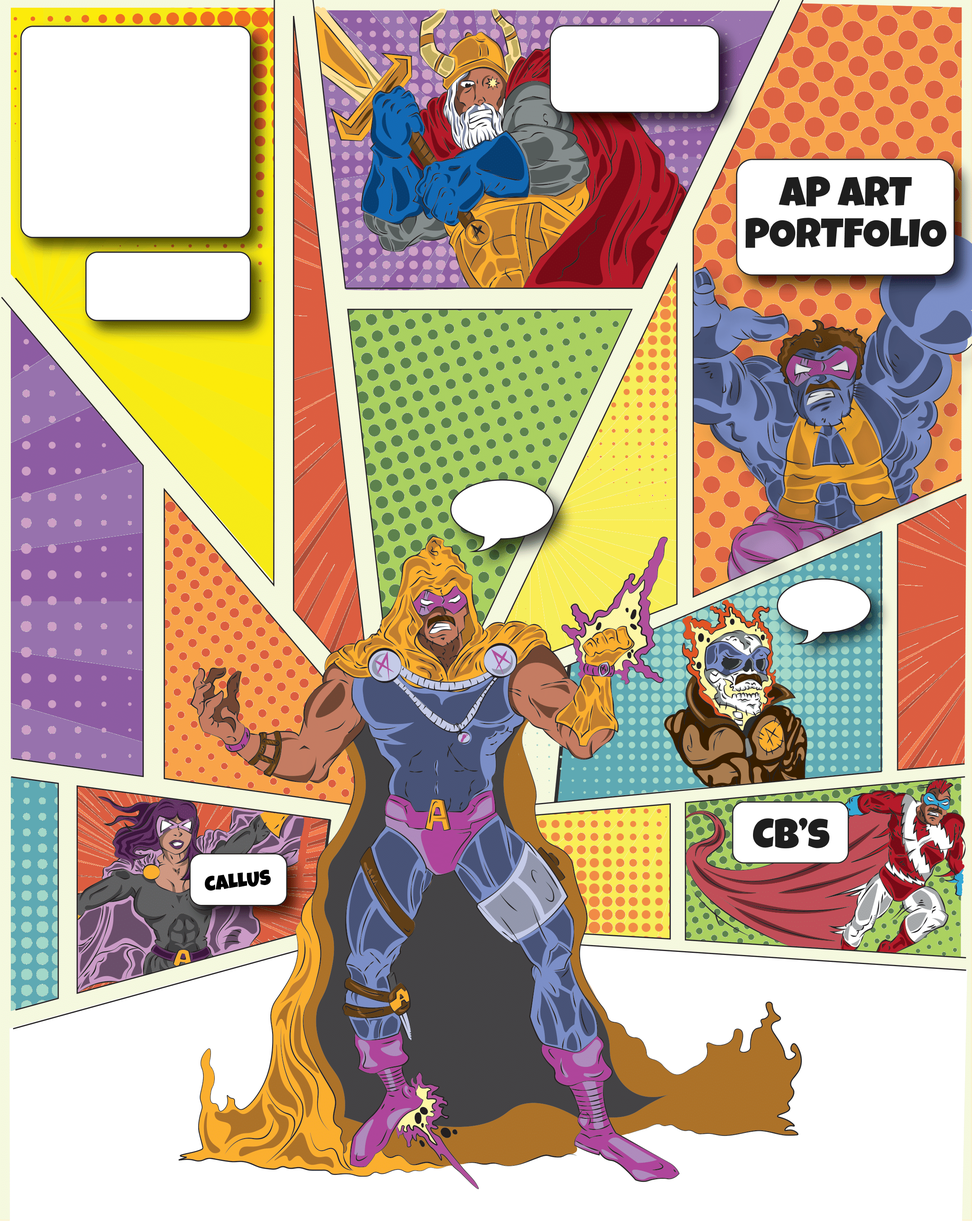
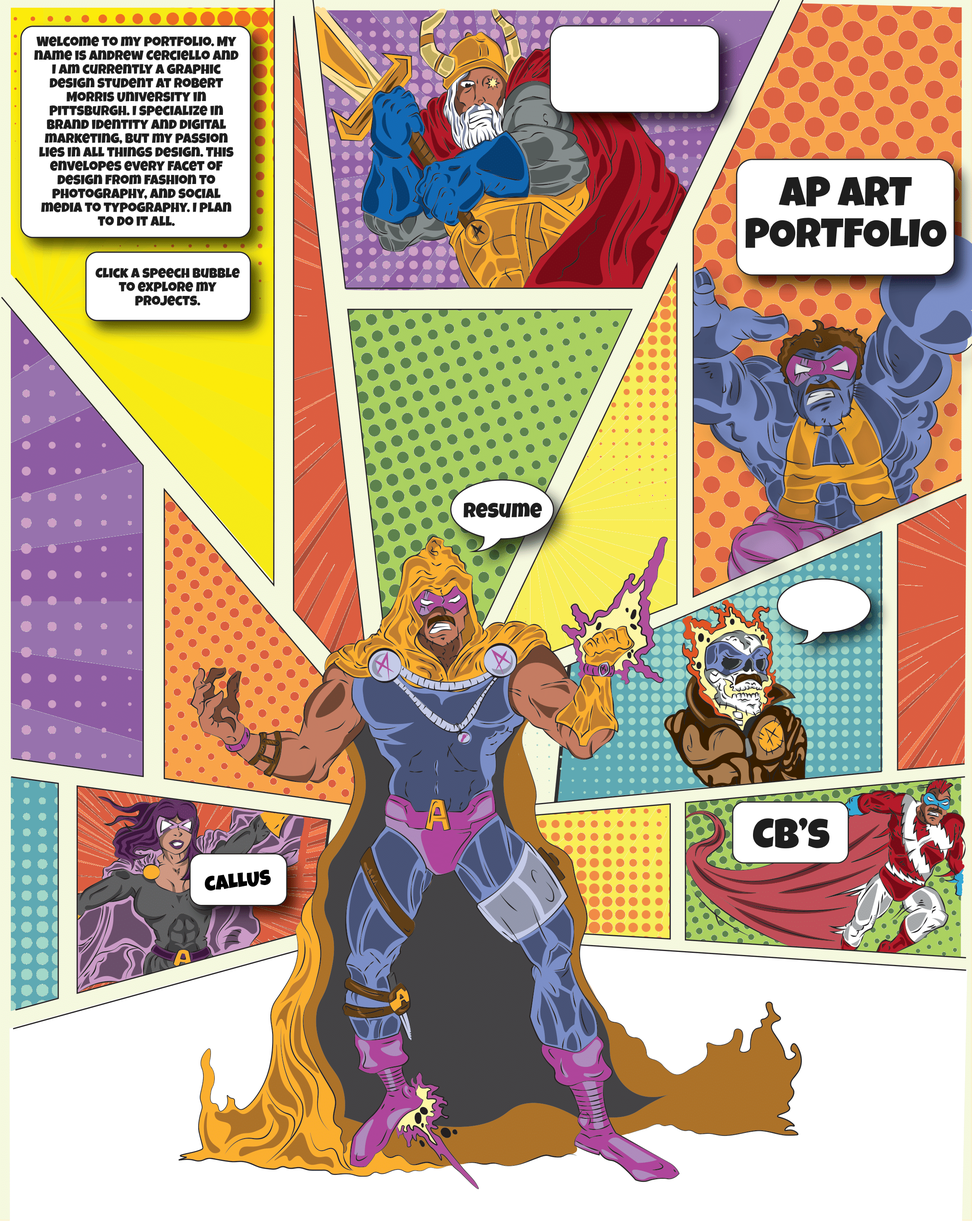
added resume button

Changed region(s): [[0.0311, 0.0312, 0.2489, 0.1874], [0.0933, 0.2186, 0.2489, 0.2498], [0.4667, 0.406, 0.56, 0.4372]]

diff --git a/src/components/Home.jsx b/src/components/Home.jsx
@@ -5,7 +5,8 @@ const Home = () => {
     <div className="relative bg-heytheandrew bg-top w-full h-[250vh] bg-cover bg-scroll">
       {/* Background Image */}
       <div className="absolute inset-0 pointer-events-none"></div>
-      
+
+      {/* Callus Button*/}
       <div className="absolute" style={{ top: '73.7%', left: '24.5%', transform: 'translate(-50%, -50%)', zIndex: 10 }}>
         <div className="w-[10vw] h-[5vh] bg-red-500 opacity-0 cursor-pointer py-9">
           <Link to="/callus" className="block h-full w-full flex items-center justify-center text-white">
@@ -13,9 +14,11 @@ const Home = () => {
           </Link>
         </div>
       </div>
+
+      {/* CB's Button*/}
       <div className="absolute" style={{ top: '70.5%', left: '81.2%', transform: 'translate(-50%, -50%)', zIndex: 10 }}>
         <div className="w-[12vw] h-[5vh] bg-red-500 opacity-0 cursor-pointer py-9">
-          <Link to="/Cbs" className="block h-full w-full flex items-center justify-center text-white">
+          <Link to="/cbs" className="block h-full w-full flex items-center justify-center text-white">
             CB's
           </Link>
         </div>
@@ -26,6 +29,15 @@ const Home = () => {
         <div className="w-[24vw] h-[32vh] bg-red-500 opacity-0 cursor-pointer py-9">
           <Link to="/ap-art" className="block h-full w-full flex items-center justify-center text-white">
             AP ART PORTFOLIO
+          </Link>
+        </div>
+      </div>
+      
+      {/* RESUME Button */}
+      <div className="absolute" style={{ top: '42%', right: '40%', transform: 'translate(-10%, -50%)', zIndex: 10 }}>
+        <div className="w-[16vw] h-[16vh] bg-red-500 opacity-0 cursor-pointer py-9">
+          <Link to="https://docs.google.com/document/d/1f4NceAsjwlohGQO05duVJD-LV26ia0ZxnTrng3ER0vk/edit?tab=t.0" target='_blank' className="block h-full w-full flex items-center justify-center text-white">
+          RESUME
           </Link>
         </div>
       </div>

diff --git a/src/App.js b/src/App.js
@@ -14,11 +14,11 @@ const App = () => {
       <main>
         <Routes>
           <Route path="/" element={<Home />} />
-          <Route path="/callus" element={<Callus />} />
-          <Route path="/callus-2" element={<Callus2 />} />
           <Route path="/ap-art" element={<ApArt />} />
           <Route path="/ap-art2" element={<ApArt2 />} />
           <Route path="/cbs" element={<Cbs />} />
+          <Route path="/callus" element={<Callus />} />
+          <Route path="/callus-2" element={<Callus2 />} />
         </Routes>
       </main>
     </div>

diff --git a/src/components/ApArt2.jsx b/src/components/ApArt2.jsx
@@ -36,7 +36,7 @@ const ApArt2 = () => {
             Each of these photos were taken by Abby Kirsten.
             <br />
             See her other work 
-            <Link className="text-red-500 hover:text-red-800" to="https://www.instagram.com/abbyk.photos/"> here.</Link>
+            <Link className="text-red-500 hover:text-red-800" to="https://www.instagram.com/abbyk.photos/" target="_blank"> here.</Link>
             </p>
           </div>
         </div>
